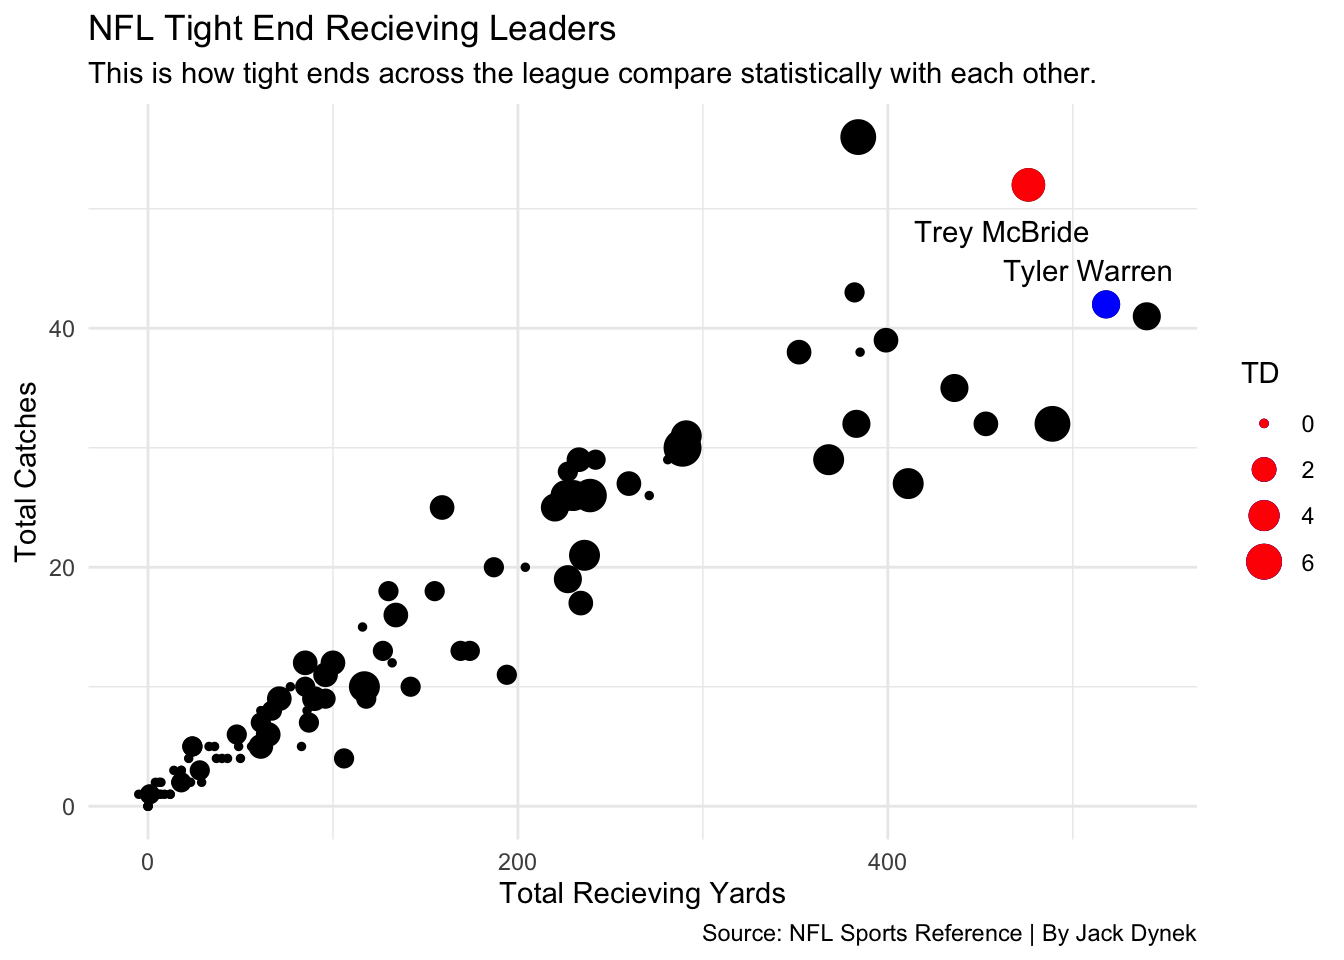
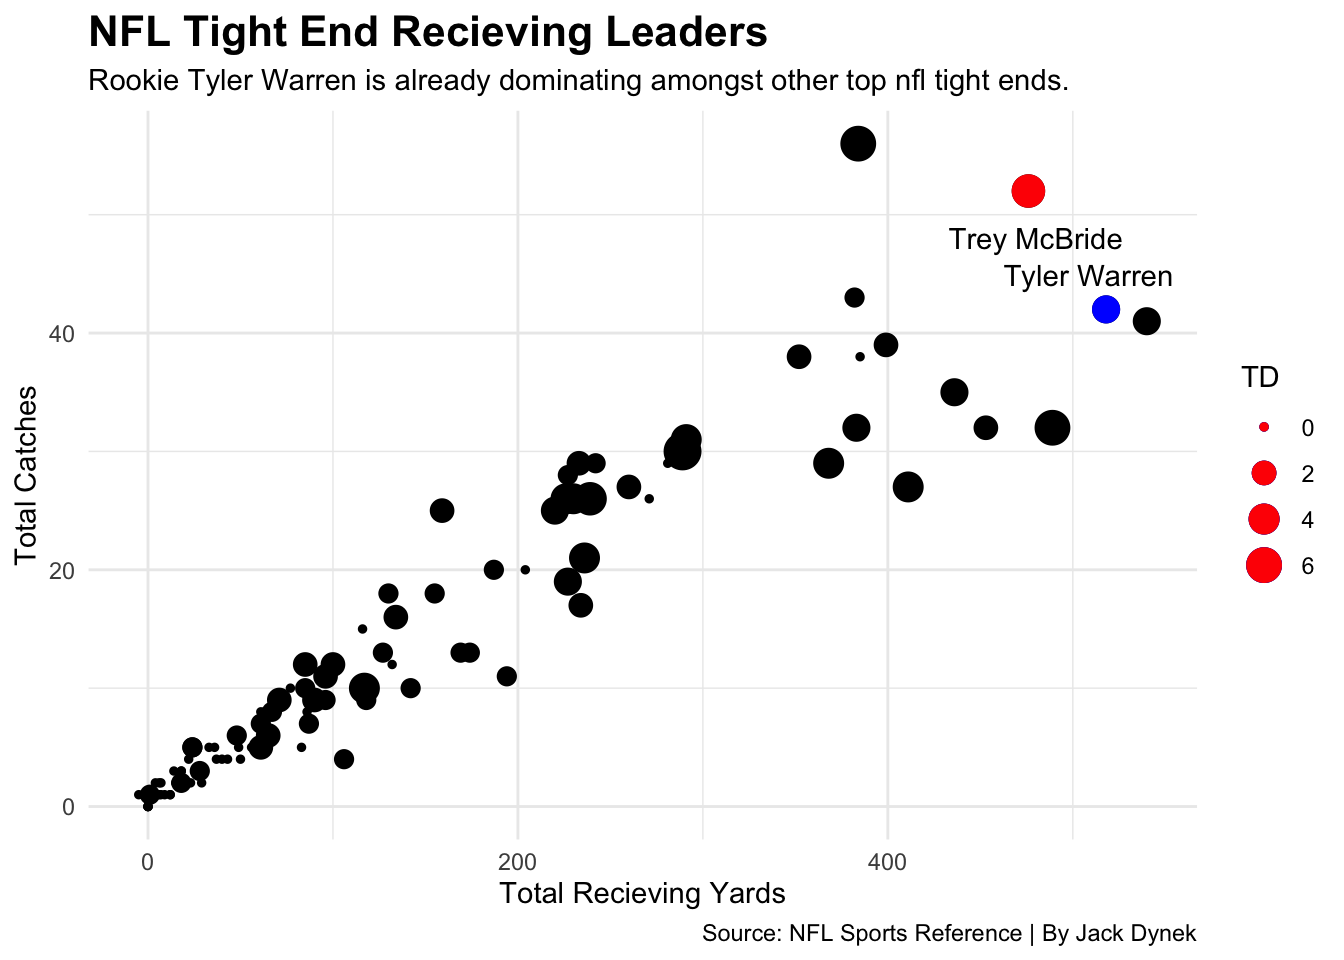
check

diff --git a/posts/colts-offense/index.html b/posts/colts-offense/index.html
@@ -227,11 +227,12 @@ pre > code.sourceCode > span > a:first-child::before { text-decoration: underlin
 <span id="cb1-24"><a href="#cb1-24" aria-hidden="true" tabindex="-1"></a>  <span class="fu">labs</span>(</span>
 <span id="cb1-25"><a href="#cb1-25" aria-hidden="true" tabindex="-1"></a>    <span class="at">x=</span><span class="st">"Season"</span>, </span>
 <span id="cb1-26"><a href="#cb1-26" aria-hidden="true" tabindex="-1"></a>    <span class="at">y=</span><span class="st">"Percentage of drives ending in scores"</span>, </span>
-<span id="cb1-27"><a href="#cb1-27" aria-hidden="true" tabindex="-1"></a>    <span class="at">title=</span><span class="st">"NFL Offenses drives ending in scores by year"</span>, </span>
+<span id="cb1-27"><a href="#cb1-27" aria-hidden="true" tabindex="-1"></a>    <span class="at">title=</span><span class="st">"NFL Offense's drives ending in scores"</span>, </span>
 <span id="cb1-28"><a href="#cb1-28" aria-hidden="true" tabindex="-1"></a>    <span class="at">subtitle=</span><span class="st">"This is how the Colts compare against the past years Superbowl matchup."</span>, </span>
-<span id="cb1-29"><a href="#cb1-29" aria-hidden="true" tabindex="-1"></a>    <span class="at">caption=</span><span class="st">"Source: Data Provider | By Jack Dynek"</span></span>
+<span id="cb1-29"><a href="#cb1-29" aria-hidden="true" tabindex="-1"></a>    <span class="at">caption=</span><span class="st">"Source: NFL Sports Reference | By Jack Dynek"</span></span>
 <span id="cb1-30"><a href="#cb1-30" aria-hidden="true" tabindex="-1"></a>    ) <span class="sc">+</span></span>
-<span id="cb1-31"><a href="#cb1-31" aria-hidden="true" tabindex="-1"></a>  <span class="fu">theme_minimal</span>()</span></code></pre></div><button title="Copy to Clipboard" class="code-copy-button"><i class="bi"></i></button></div>
+<span id="cb1-31"><a href="#cb1-31" aria-hidden="true" tabindex="-1"></a>  <span class="fu">theme_minimal</span>()<span class="sc">+</span></span>
+<span id="cb1-32"><a href="#cb1-32" aria-hidden="true" tabindex="-1"></a>  <span class="fu">theme</span>(<span class="at">plot.title =</span> <span class="fu">element_text</span>(<span class="at">size =</span> <span class="dv">16</span>, <span class="at">face =</span> <span class="st">"bold"</span>))</span></code></pre></div><button title="Copy to Clipboard" class="code-copy-button"><i class="bi"></i></button></div>
 </details>
 <div class="cell-output-display">
 <div>
@@ -271,9 +272,10 @@ pre > code.sourceCode > span > a:first-child::before { text-decoration: underlin
 <span id="cb2-24"><a href="#cb2-24" aria-hidden="true" tabindex="-1"></a>    <span class="at">y=</span><span class="st">"Offensive Yards Per Game"</span>, </span>
 <span id="cb2-25"><a href="#cb2-25" aria-hidden="true" tabindex="-1"></a>    <span class="at">title=</span><span class="st">"Colts First 8 Games on Offense in 2024"</span>, </span>
 <span id="cb2-26"><a href="#cb2-26" aria-hidden="true" tabindex="-1"></a>    <span class="at">subtitle=</span><span class="st">"This shows how the Colts pass and rushing yards each game to start 2024."</span>, </span>
-<span id="cb2-27"><a href="#cb2-27" aria-hidden="true" tabindex="-1"></a>    <span class="at">caption=</span><span class="st">"Source: Data Provider | By Jack Dynek"</span></span>
+<span id="cb2-27"><a href="#cb2-27" aria-hidden="true" tabindex="-1"></a>    <span class="at">caption=</span><span class="st">"Source: NFL Sports Reference | By Jack Dynek"</span></span>
 <span id="cb2-28"><a href="#cb2-28" aria-hidden="true" tabindex="-1"></a>    ) <span class="sc">+</span></span>
-<span id="cb2-29"><a href="#cb2-29" aria-hidden="true" tabindex="-1"></a>    <span class="fu">theme_minimal</span>()</span></code></pre></div><button title="Copy to Clipboard" class="code-copy-button"><i class="bi"></i></button></div>
+<span id="cb2-29"><a href="#cb2-29" aria-hidden="true" tabindex="-1"></a>    <span class="fu">theme_minimal</span>()<span class="sc">+</span></span>
+<span id="cb2-30"><a href="#cb2-30" aria-hidden="true" tabindex="-1"></a>  <span class="fu">theme</span>(<span class="at">plot.title =</span> <span class="fu">element_text</span>(<span class="at">size =</span> <span class="dv">16</span>, <span class="at">face =</span> <span class="st">"bold"</span>))</span></code></pre></div><button title="Copy to Clipboard" class="code-copy-button"><i class="bi"></i></button></div>
 </details>
 <div class="cell-output-display">
 <div>
@@ -283,13 +285,13 @@ pre > code.sourceCode > span > a:first-child::before { text-decoration: underlin
 </div>
 </div>
 </div>
-<p>This is the start to the colts season in 2024, and through eight games they averaged 315 yards and relied heavily on the pass game, only going over 400 yards once.</p>
+<p>This is the start to the colts season in 2024, and through eight games they averaged 315 yards, represented by the blue line, and relied heavily on the pass game, only going over 400 yards once.</p>
 <div class="cell">
 <details class="code-fold">
 <summary>Code</summary>
 <div class="code-copy-outer-scaffold"><div class="sourceCode cell-code" id="cb3"><pre class="sourceCode r code-with-copy"><code class="sourceCode r"><span id="cb3-1"><a href="#cb3-1" aria-hidden="true" tabindex="-1"></a><span class="fu">ggplot</span>() <span class="sc">+</span> </span>
 <span id="cb3-2"><a href="#cb3-2" aria-hidden="true" tabindex="-1"></a>  <span class="fu">geom_bar</span>(<span class="at">data=</span>longame825, <span class="fu">aes</span>(<span class="at">x=</span>Week, <span class="at">weight=</span>Yards, <span class="at">fill=</span>Type)) <span class="sc">+</span> </span>
-<span id="cb3-3"><a href="#cb3-3" aria-hidden="true" tabindex="-1"></a>  <span class="fu">coord_flip</span>()<span class="sc">+</span>  <span class="fu">geom_hline</span>(<span class="at">yintercept=</span><span class="fl">383.33</span>, <span class="at">color=</span><span class="st">"blue"</span>) <span class="sc">+</span></span>
+<span id="cb3-3"><a href="#cb3-3" aria-hidden="true" tabindex="-1"></a>  <span class="fu">coord_flip</span>()<span class="sc">+</span>  <span class="fu">geom_hline</span>(<span class="at">yintercept=</span><span class="fl">383.33</span>, <span class="at">color=</span><span class="st">"black"</span>) <span class="sc">+</span> <span class="fu">geom_hline</span>(<span class="at">yintercept=</span><span class="dv">315</span>, <span class="at">color=</span><span class="st">"blue"</span>) <span class="sc">+</span></span>
 <span id="cb3-4"><a href="#cb3-4" aria-hidden="true" tabindex="-1"></a>  <span class="fu">labs</span>(</span>
 <span id="cb3-5"><a href="#cb3-5" aria-hidden="true" tabindex="-1"></a>    <span class="at">x=</span><span class="st">"Week"</span>, </span>
 <span id="cb3-6"><a href="#cb3-6" aria-hidden="true" tabindex="-1"></a>    <span class="at">y=</span><span class="st">"Offensive Yards Per Game"</span>, </span>
@@ -297,7 +299,8 @@ pre > code.sourceCode > span > a:first-child::before { text-decoration: underlin
 <span id="cb3-8"><a href="#cb3-8" aria-hidden="true" tabindex="-1"></a>    <span class="at">subtitle=</span><span class="st">"This shows how the Colts pass and rushing yards each game to start 2025."</span>, </span>
 <span id="cb3-9"><a href="#cb3-9" aria-hidden="true" tabindex="-1"></a>    <span class="at">caption=</span><span class="st">"Source: NFL Sports Reference | By Jack Dynek"</span></span>
 <span id="cb3-10"><a href="#cb3-10" aria-hidden="true" tabindex="-1"></a>    ) <span class="sc">+</span></span>
-<span id="cb3-11"><a href="#cb3-11" aria-hidden="true" tabindex="-1"></a>    <span class="fu">theme_minimal</span>()</span></code></pre></div><button title="Copy to Clipboard" class="code-copy-button"><i class="bi"></i></button></div>
+<span id="cb3-11"><a href="#cb3-11" aria-hidden="true" tabindex="-1"></a>    <span class="fu">theme_minimal</span>()<span class="sc">+</span></span>
+<span id="cb3-12"><a href="#cb3-12" aria-hidden="true" tabindex="-1"></a>  <span class="fu">theme</span>(<span class="at">plot.title =</span> <span class="fu">element_text</span>(<span class="at">size =</span> <span class="dv">16</span>, <span class="at">face =</span> <span class="st">"bold"</span>))</span></code></pre></div><button title="Copy to Clipboard" class="code-copy-button"><i class="bi"></i></button></div>
 </details>
 <div class="cell-output-display">
 <div>
@@ -321,15 +324,16 @@ pre > code.sourceCode > span > a:first-child::before { text-decoration: underlin
 <span id="cb4-7"><a href="#cb4-7" aria-hidden="true" tabindex="-1"></a>TW <span class="ot">&lt;-</span> terec <span class="sc">|&gt;</span> <span class="fu">filter</span>(Player <span class="sc">==</span> <span class="st">"Tyler Warren"</span>)</span>
 <span id="cb4-8"><a href="#cb4-8" aria-hidden="true" tabindex="-1"></a>TM <span class="ot">&lt;-</span> terec <span class="sc">|&gt;</span> <span class="fu">filter</span>(Player <span class="sc">==</span> <span class="st">"Trey McBride"</span>)</span>
 <span id="cb4-9"><a href="#cb4-9" aria-hidden="true" tabindex="-1"></a></span>
-<span id="cb4-10"><a href="#cb4-10" aria-hidden="true" tabindex="-1"></a><span class="fu">ggplot</span>() <span class="sc">+</span> <span class="fu">geom_point</span>(<span class="at">data=</span>terec, <span class="fu">aes</span>(<span class="at">x=</span>Yds, <span class="at">y=</span>Rec, <span class="at">size=</span>TD )) <span class="sc">+</span> <span class="fu">geom_point</span>(<span class="at">data=</span>TW, <span class="fu">aes</span>(<span class="at">x=</span>Yds, <span class="at">y=</span>Rec, <span class="at">size=</span>TD),<span class="at">color=</span><span class="st">"blue"</span>)<span class="sc">+</span> <span class="fu">geom_text_repel</span>(<span class="at">data=</span>TW, <span class="fu">aes</span>(<span class="at">x=</span><span class="dv">490</span>, <span class="at">y=</span><span class="dv">43</span>, <span class="at">label=</span>Player))<span class="sc">+</span> <span class="fu">geom_point</span>(<span class="at">data=</span>TM, <span class="fu">aes</span>(<span class="at">x=</span>Yds, <span class="at">y=</span>Rec, <span class="at">size=</span>TD),<span class="at">color=</span><span class="st">"red"</span>) <span class="sc">+</span> <span class="fu">geom_text_repel</span>(<span class="at">data=</span>TM, <span class="fu">aes</span>(<span class="at">x=</span><span class="dv">480</span>, <span class="at">y=</span><span class="dv">50</span>, <span class="at">label=</span>Player))<span class="sc">+</span></span>
+<span id="cb4-10"><a href="#cb4-10" aria-hidden="true" tabindex="-1"></a><span class="fu">ggplot</span>() <span class="sc">+</span> <span class="fu">geom_point</span>(<span class="at">data=</span>terec, <span class="fu">aes</span>(<span class="at">x=</span>Yds, <span class="at">y=</span>Rec, <span class="at">size=</span>TD )) <span class="sc">+</span> <span class="fu">geom_point</span>(<span class="at">data=</span>TW, <span class="fu">aes</span>(<span class="at">x=</span>Yds, <span class="at">y=</span>Rec, <span class="at">size=</span>TD),<span class="at">color=</span><span class="st">"blue"</span>)<span class="sc">+</span> <span class="fu">geom_text_repel</span>(<span class="at">data=</span>TW, <span class="fu">aes</span>(<span class="at">x=</span><span class="dv">490</span>, <span class="at">y=</span><span class="dv">43</span>, <span class="at">label=</span>Player))<span class="sc">+</span> <span class="fu">geom_point</span>(<span class="at">data=</span>TM, <span class="fu">aes</span>(<span class="at">x=</span>Yds, <span class="at">y=</span>Rec, <span class="at">size=</span>TD),<span class="at">color=</span><span class="st">"red"</span>) <span class="sc">+</span> <span class="fu">geom_text</span>(<span class="at">data=</span>TM, <span class="fu">aes</span>(<span class="at">x=</span><span class="dv">480</span>, <span class="at">y=</span><span class="dv">48</span>, <span class="at">label=</span>Player))<span class="sc">+</span></span>
 <span id="cb4-11"><a href="#cb4-11" aria-hidden="true" tabindex="-1"></a>  <span class="fu">labs</span>(</span>
 <span id="cb4-12"><a href="#cb4-12" aria-hidden="true" tabindex="-1"></a>    <span class="at">x=</span><span class="st">"Total Recieving Yards"</span>, </span>
 <span id="cb4-13"><a href="#cb4-13" aria-hidden="true" tabindex="-1"></a>    <span class="at">y=</span><span class="st">"Total Catches"</span>, </span>
 <span id="cb4-14"><a href="#cb4-14" aria-hidden="true" tabindex="-1"></a>    <span class="at">title=</span><span class="st">"NFL Tight End Recieving Leaders"</span>, </span>
-<span id="cb4-15"><a href="#cb4-15" aria-hidden="true" tabindex="-1"></a>    <span class="at">subtitle=</span><span class="st">"This is how tight ends across the league compare statistically with each other."</span>, </span>
+<span id="cb4-15"><a href="#cb4-15" aria-hidden="true" tabindex="-1"></a>    <span class="at">subtitle=</span><span class="st">"Rookie Tyler Warren is already dominating amongst other top nfl tight ends."</span>, </span>
 <span id="cb4-16"><a href="#cb4-16" aria-hidden="true" tabindex="-1"></a>    <span class="at">caption=</span><span class="st">"Source: NFL Sports Reference | By Jack Dynek"</span></span>
 <span id="cb4-17"><a href="#cb4-17" aria-hidden="true" tabindex="-1"></a>    ) <span class="sc">+</span></span>
-<span id="cb4-18"><a href="#cb4-18" aria-hidden="true" tabindex="-1"></a>    <span class="fu">theme_minimal</span>()</span></code></pre></div><button title="Copy to Clipboard" class="code-copy-button"><i class="bi"></i></button></div>
+<span id="cb4-18"><a href="#cb4-18" aria-hidden="true" tabindex="-1"></a>    <span class="fu">theme_minimal</span>()<span class="sc">+</span></span>
+<span id="cb4-19"><a href="#cb4-19" aria-hidden="true" tabindex="-1"></a>  <span class="fu">theme</span>(<span class="at">plot.title =</span> <span class="fu">element_text</span>(<span class="at">size =</span> <span class="dv">16</span>, <span class="at">face =</span> <span class="st">"bold"</span>))</span></code></pre></div><button title="Copy to Clipboard" class="code-copy-button"><i class="bi"></i></button></div>
 </details>
 <div class="cell-output-display">
 <div>
@@ -353,10 +357,11 @@ pre > code.sourceCode > span > a:first-child::before { text-decoration: underlin
 <span id="cb5-8"><a href="#cb5-8" aria-hidden="true" tabindex="-1"></a>    <span class="at">x=</span><span class="st">"Rushing Yards"</span>, </span>
 <span id="cb5-9"><a href="#cb5-9" aria-hidden="true" tabindex="-1"></a>    <span class="at">y=</span><span class="st">"Rushing Attempts"</span>, </span>
 <span id="cb5-10"><a href="#cb5-10" aria-hidden="true" tabindex="-1"></a>    <span class="at">title=</span><span class="st">"NFL Rushing Leaders"</span>, </span>
-<span id="cb5-11"><a href="#cb5-11" aria-hidden="true" tabindex="-1"></a>    <span class="at">subtitle=</span><span class="st">"This is how NFL running backs compare statistically against each other"</span>, </span>
+<span id="cb5-11"><a href="#cb5-11" aria-hidden="true" tabindex="-1"></a>    <span class="at">subtitle=</span><span class="st">"This is how Jonathan Taylor compares statistically against other RBS"</span>, </span>
 <span id="cb5-12"><a href="#cb5-12" aria-hidden="true" tabindex="-1"></a>    <span class="at">caption=</span><span class="st">"Source: NFL Sports Reference | By Jack Dynek"</span></span>
 <span id="cb5-13"><a href="#cb5-13" aria-hidden="true" tabindex="-1"></a>    ) <span class="sc">+</span></span>
-<span id="cb5-14"><a href="#cb5-14" aria-hidden="true" tabindex="-1"></a>    <span class="fu">theme_minimal</span>()</span></code></pre></div><button title="Copy to Clipboard" class="code-copy-button"><i class="bi"></i></button></div>
+<span id="cb5-14"><a href="#cb5-14" aria-hidden="true" tabindex="-1"></a>    <span class="fu">theme_minimal</span>() <span class="sc">+</span></span>
+<span id="cb5-15"><a href="#cb5-15" aria-hidden="true" tabindex="-1"></a>    <span class="fu">theme</span>(<span class="at">plot.title =</span> <span class="fu">element_text</span>(<span class="at">size =</span> <span class="dv">16</span>, <span class="at">face =</span> <span class="st">"bold"</span>))</span></code></pre></div><button title="Copy to Clipboard" class="code-copy-button"><i class="bi"></i></button></div>
 </details>
 <div class="cell-output-display">
 <div>

diff --git a/index.html b/index.html
@@ -209,7 +209,7 @@ window.Quarto = {
 
 <div class="quarto-listing quarto-listing-container-default" id="listing-listing">
 <div class="list quarto-listing-default">
-<div class="quarto-post image-right" data-index="0" data-categories="TkZMJTJDRm9vdGJhbGwlMkNHcmFwaHM=" data-listing-date-sort="1763359200000" data-listing-file-modified-sort="1763509681525" data-listing-date-modified-sort="NaN" data-listing-reading-time-sort="6" data-listing-word-count-sort="1040">
+<div class="quarto-post image-right" data-index="0" data-categories="TkZMJTJDRm9vdGJhbGwlMkNHcmFwaHM=" data-listing-date-sort="1763359200000" data-listing-file-modified-sort="1763523326720" data-listing-date-modified-sort="NaN" data-listing-reading-time-sort="6" data-listing-word-count-sort="1096">
 <div class="thumbnail"><a href="./posts/colts-offense/index.html" class="no-external">
 
 <img loading="lazy" src="./posts/colts-offense/image.png" class="thumbnail-image">
